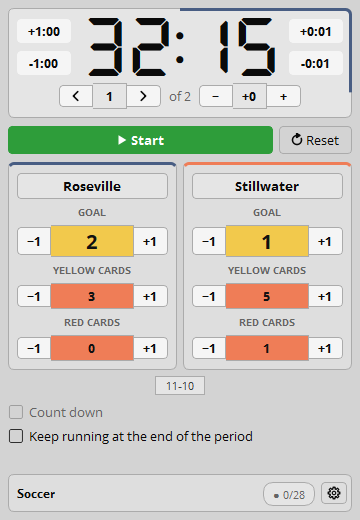
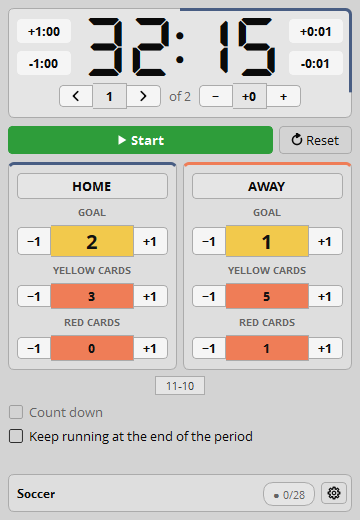
release: 1.1.0
Remote web page, settings window, optional looks, update changelog; README screenshots (dock, settings, mobile browser) and changelog for 1.1.0.

Changed region(s): [[0.6417, 0.3385, 0.825, 0.3692], [0.1528, 0.3385, 0.3361, 0.3692]]

diff --git a/src/plugin/DockGrab.cpp b/src/plugin/DockGrab.cpp
@@ -15,6 +15,9 @@
 #include "MatchSettingsDialog.hpp"
 #include "PenaltyDialog.hpp"
 #include "ScoreboardDock.hpp"
+#include "WebPage.hpp"
+#include "WebServer.hpp"
+#include "WebState.hpp"
 #include "SportCatalog.hpp"
 #include <obs-module.h>
 
@@ -25,8 +28,8 @@ namespace {
 // A match in progress, so the pictures show what the dock looks like in use.
 void stage(ClockDriver* driver, const sb::SportPreset& sport) {
     driver->replaceMatch(sb::MatchEngine(sb::MatchSettings::forSport(sport)));
-    driver->apply(sb::cmd::SetTeamName{sb::Team::Home, "Roseville"});
-    driver->apply(sb::cmd::SetTeamName{sb::Team::Away, "Stillwater"});
+    driver->apply(sb::cmd::SetTeamName{sb::Team::Home, "HOME"});
+    driver->apply(sb::cmd::SetTeamName{sb::Team::Away, "AWAY"});
     const auto add = [driver](sb::Team team, sb::Stat stat, int n) {
         for (int i = 0; i < n; ++i) driver->apply(sb::cmd::AddStat{team, stat, 1});
     };
@@ -193,6 +196,24 @@ int run(ClockDriver* driver, FieldSinks* sinks, const QString& directory) {
             }
         }
     }
+    // The remote page exactly as the server would send it, with the state of a staged match (the
+    // README pictures are made from these in a browser).
+    const auto writeText = [&](const QString& name, const std::string& text) {
+        QFile out(QDir(directory).filePath(name));
+        if (out.open(QIODevice::WriteOnly)) {
+            out.write(text.data(), static_cast<qint64>(text.size()));
+            ++written;
+        }
+    };
+    {
+        stage(driver, *sb::findSport("ice_hockey"));
+        writeText(QStringLiteral("web-page-control.html"),
+                  webPageHtml(true, WebServer::pageTexts().toStdString()));
+        writeText(QStringLiteral("web-page-view.html"),
+                  webPageHtml(false, WebServer::pageTexts().toStdString()));
+        writeText(QStringLiteral("web-state-control.json"),
+                  sb::webStateJson(driver->engine(), true, scratch.prefs()));
+    }
     // The optional looks, switched on: team colors, a consumed-time border and a clock that turns
     // amber, then red as the period runs out.
     {
@@ -208,7 +229,16 @@ int run(ClockDriver* driver, FieldSinks* sinks, const QString& directory) {
         ScoreboardDock colored(driver, sinks, &scratch, nullptr);
         stage(driver, *hockey);
         driver->apply(sb::cmd::ClockSet{sb::seconds(22)});
+        {
+            // After the clock was moved, so the penalties are still there (moving it runs them
+            // down).
+            const auto& phases = hockey->penaltyOptions.front().phases;
+            driver->apply(sb::cmd::PenaltyAdd{sb::Team::Home, "24", phases});
+            driver->apply(sb::cmd::PenaltyAdd{sb::Team::Away, "11", phases});
+        }
         QApplication::processEvents();
+        writeText(QStringLiteral("web-state-view-custom.json"),
+                  sb::webStateJson(driver->engine(), false, scratch.prefs()));
         if (save(&colored, 360,
                  QDir(directory).filePath(QStringLiteral("dock-custom-%1.png").arg(theme))))
             ++written;

diff --git a/src/plugin/WebServer.cpp b/src/plugin/WebServer.cpp
@@ -368,7 +368,7 @@ void WebServer::handle(const sb::HttpRequest& request, Connection* connection) {
     switch (route.kind) {
     case Kind::Page:
         reply(connection, 200, "text/html; charset=utf-8",
-              webPageHtml(route.canControl, i18nJson().toStdString()));
+              webPageHtml(route.canControl, pageTexts().toStdString()));
         return;
     case Kind::State:
         reply(connection, 200, kJson, sb::webStateJson(driver_->engine(), route.canControl, prefs));
@@ -434,7 +434,7 @@ void WebServer::reply(Connection* connection, int status, const char* contentTyp
     connection->socket->disconnectFromHost();
 }
 
-QString WebServer::i18nJson() const {
+QString WebServer::pageTexts() {
     QJsonObject texts;
     for (const char* key : kPageKeys)
         texts.insert(QString::fromLatin1(key), QString::fromUtf8(obs_module_text(key)));

diff --git a/src/plugin/WebServer.hpp b/src/plugin/WebServer.hpp
@@ -42,6 +42,8 @@ public:
     // link.
     int controllers() const { return controllers_; }
     int viewers() const { return viewers_; }
+    // The texts of the remote page as the JSON object the page expects (by locale key).
+    static QString pageTexts();
     bool listening() const { return server_.isListening(); }
     // Why the port could not be opened ("" when it could, or when the server is off).
     QString error() const { return error_; }
@@ -70,7 +72,6 @@ private:
     void handle(const sb::HttpRequest& request, Connection* connection);
     void reply(Connection* connection, int status, const char* contentType,
                const std::string& body);
-    QString i18nJson() const;
 
     QPointer<ClockDriver> driver_;
     QPointer<VendorApi> api_;

diff --git a/src/plugin/WebPage.cpp b/src/plugin/WebPage.cpp
@@ -218,7 +218,7 @@ function paintTeam(side,s){
   T0.fouls2.box.hidden=!L.fouls2;
   if(L.fouls2)fillCounter(T0.fouls2,t("Panel.Fouls2."+L.fouls2Label),s[side+"Fouls2"],null,K.foulColor);
   var rows=L.penalties?(s.penalties[side]||[]):[];
-  T0.penHead.hidden=!L.penalties;T0.penCap.textContent=t("Panel.Penalties");
+  T0.penHead.hidden=!L.penalties||(!CONTROL&&!rows.length);T0.penCap.textContent=t("Panel.Penalties");
   var key=CONTROL+JSON.stringify(rows.map(function(p){return [p.id,p.player,p.time,p.phase2,p.queued]}));
   if(key!==T0.penKey){T0.penKey=key;T0.penList.innerHTML="";
     rows.forEach(function(p){

diff --git a/README.md b/README.md
@@ -46,10 +46,10 @@ so every change shows on the next frame. Your font, colors and position stay you
 | **Clock** | Tenths of a second, up or down; ±1 min / ±1 s arrows capped to the period; two-digit minutes; stoppage time. |
 | **Sports** | 14 editable presets: ice hockey, basketball, soccer, futsal, American football, lacrosse, rugby union and sevens, field hockey, water polo, handball, rink hockey, floorball, generic. |
 | **Penalties** | Up to 8 per team, 2 running; compound (2+2); edit or cancel each one; strength text (`5-4`). |
-| **Dock** | Compact, no scrolling; custom score and foul colors; match autosaved and resumable. |
+| **Dock** | Compact, no scrolling, follows the OBS theme; sport, links and settings in a footer; optional team colors, period-progress border and clock color; match autosaved and resumable. |
 | **Hotkeys** | 40, stored in the scene collection. |
 | **Remote control** | obs-websocket vendor, Stream Deck plugin, Bitfocus Companion module, web page for watching or commanding from a browser. |
-| **Extras** | Optional `.txt` output, event log with YouTube chapters export, update notice. |
+| **Extras** | Optional `.txt` output, event log with YouTube chapters export, update check with the changelog of the new version. |
 
 ### Sports
 
@@ -105,7 +105,12 @@ Enable the server under **Tools → WebSocket Server Settings**. The Stream Deck
 
 #### Web page
 
-<img src="docs/images/web-remote.png" width="340" alt="The remote page in a browser: the same layout as the dock">
+<table>
+  <tr>
+    <td align="center"><img src="docs/images/remote-mobile-control.png" width="260" alt="The remote page on a phone with the control link"><br><sub>Control link</sub></td>
+    <td align="center"><img src="docs/images/remote-mobile-view.png" width="260" alt="The remote page on a phone with the view link, custom colors"><br><sub>View link, custom colors</sub></td>
+  </tr>
+</table>
 
 Off by default. Turn it on in **⚙ → Remote**: *View only* gives one link that can only watch; *View and control* adds a second link that also runs the clock, scores, periods and penalty cancellations. Open a link in any browser on your network, or copy it to a phone. The page looks like the dock (same colors, same arrangement of the buttons, the progress border and the clock color you chose). The keys of the two links are random, or you type your own (6–64 letters, digits, `-`, `_`). On a phone the page can vibrate when you press a button; a switch in its footer turns that on or off (Android; on iPhone it relies on an iOS trick and is not guaranteed). The connection is plain HTTP, so use it on a network you trust. A badge in the footer of the dock tells you when a device is connected. To reach it from outside your network (Tailscale, Cloudflare Tunnel, ngrok) see [docs/remote-control.md](docs/remote-control.md).
 
@@ -118,6 +123,8 @@ Off by default. Turn it on in **⚙ → Remote**: *View only* gives one link tha
 | Update check | Gear icon → *Updates* | *Check for updates now* asks GitHub on demand; *Check for updates at start* does it once per start. When a newer release exists, the page shows its changelog and the dock shows an "Update" button. Sends only the plugin version; notifies, never installs. |
 
 ### Look
+
+<img src="docs/images/settings-look.png" width="520" alt="Settings window, Look page: colors, period progress and clock color">
 
 | Feature | Where | Behavior |
 |---|---|---|
@@ -162,10 +169,10 @@ della sorgente tramite le API di OBS, così ogni cambio compare al fotogramma su
 | **Cronometro** | Decimi di secondo, avanti o indietro; frecce ±1 min / ±1 s limitate al periodo; minuti a due cifre; recupero. |
 | **Sport** | 14 preset modificabili: hockey su ghiaccio, basket, calcio, futsal, football americano, lacrosse, rugby a 15 e a 7, hockey su prato, pallanuoto, pallamano, hockey su pista, floorball, generico. |
 | **Penalità** | Fino a 8 per squadra, 2 in corso; composte (2+2); modifica o annulla ciascuna; testo di inferiorità (`5-4`). |
-| **Pannello** | Compatto, senza scorrimento; colori di punteggi e falli personalizzabili; partita salvata in automatico e riprendibile. |
+| **Pannello** | Compatto, senza scorrimento, segue il tema di OBS; sport, collegamenti e impostazioni in un piè di pagina; colori di squadra, bordo di avanzamento e colore del cronometro facoltativi; partita salvata in automatico e riprendibile. |
 | **Hotkey** | 40, salvate nella collezione di scene. |
-| **Controllo remoto** | Vendor obs-websocket, plugin Stream Deck, modulo Bitfocus Companion. |
-| **Extra** | Output `.txt` facoltativo, registro eventi con esportazione dei capitoli YouTube, avviso di aggiornamento. |
+| **Controllo remoto** | Vendor obs-websocket, plugin Stream Deck, modulo Bitfocus Companion, pagina web per guardare o comandare da un browser. |
+| **Extra** | Output `.txt` facoltativo, registro eventi con esportazione dei capitoli YouTube, controllo degli aggiornamenti con il changelog della nuova versione. |
 
 ### Sport
 
@@ -221,7 +228,12 @@ Attiva il server da **Strumenti → Impostazioni server WebSocket**. Il plugin S
 
 #### Pagina web
 
-<img src="docs/images/web-remote.png" width="340" alt="La pagina remota in un browser: lo stesso aspetto del pannello">
+<table>
+  <tr>
+    <td align="center"><img src="docs/images/remote-mobile-control.png" width="260" alt="La pagina remota su smartphone con il link di controllo"><br><sub>Link di controllo</sub></td>
+    <td align="center"><img src="docs/images/remote-mobile-view.png" width="260" alt="La pagina remota su smartphone con il link di visione, colori personalizzati"><br><sub>Link di visione, colori personalizzati</sub></td>
+  </tr>
+</table>
 
 Spenta di default. Si attiva da **⚙ → Remoto**: *Solo visione* dà un link che può solo guardare; *Visione e controllo* aggiunge un secondo link che comanda anche cronometro, punteggi, periodi e annullamento delle penalità. Apri il link in un browser sulla tua rete, oppure copialo sul telefono. La pagina ha l'aspetto del pannello (stessi colori, stessa disposizione dei tasti, bordo di avanzamento e colore del cronometro che hai scelto). Le chiavi dei due link sono casuali oppure le scrivi tu (da 6 a 64 lettere, cifre, `-`, `_`). Sul telefono la pagina può vibrare alla pressione dei tasti; un interruttore nel piè di pagina lo attiva o disattiva (Android; su iPhone si basa su un trucco di iOS e non è garantita). La connessione è HTTP semplice: usala su una rete di cui ti fidi. Un badge nel piè di pagina del pannello indica quando un dispositivo è collegato. Per raggiungerla da fuori rete (Tailscale, Cloudflare Tunnel, ngrok) vedi [docs/remote-control.md](docs/remote-control.md).
 
@@ -234,6 +246,8 @@ Spenta di default. Si attiva da **⚙ → Remoto**: *Solo visione* dà un link c
 | Controllo aggiornamenti | Ingranaggio → *Aggiornamenti* | *Controlla aggiornamenti ora* interroga GitHub su richiesta; *Controlla gli aggiornamenti all'avvio* lo fa una volta per avvio. Se esiste una versione più nuova la pagina mostra il changelog e il pannello un pulsante "Aggiorna". Invia solo la versione del plugin; avvisa, non installa. |
 
 ### Aspetto
+
+<img src="docs/images/settings-look.png" width="520" alt="Finestra impostazioni, pagina Aspetto: colori, avanzamento del periodo e colore del cronometro">
 
 | Funzione | Dove | Comportamento |
 |---|---|---|

diff --git a/CHANGELOG.md b/CHANGELOG.md
@@ -7,33 +7,37 @@ this project adheres to [Semantic Versioning](https://semver.org/spec/v2.0.0.htm
 
 ## [Unreleased]
 
+## [1.1.0] - 2026-10-21
+
+The dock and every window have a new look, the settings are in one window, and the scoreboard can be watched or commanded from a phone.
+
 ### Added
 
-- **Remote web page** (⚙ → Remote): off by default; *View only* or *View and control* from a phone, tablet or another computer on the same network. It looks like the dock: same colors, same arrangement of the buttons, the progress border around the clock, the clock color and the clock font. Two links (view, control) whose keys are random or typed by the user. Covers the clock, periods, stoppage, scores, shots, fouls, team names and penalty cancellation. On a phone it can vibrate on each press (on iPhone through an iOS trick that is not guaranteed); the viewer switches that on or off. The clock runs in the page between two answers, so the tenths of the last minute are smooth.
-- *Check for updates now* (Settings → Updates), with a message for "up to date" and for "could not check". A newer release shows its changelog, taken from GitHub, and an "Update" button in the dock.
+- **Remote web page** (⚙ → Remote), off by default: *View only* or *View and control* from a phone, tablet or another computer on the same network.
+  - It looks like the dock: same colors, same arrangement of the buttons, the progress border around the clock, the clock color and the clock font. It follows the light and dark theme of the browser.
+  - Two links (view, control) whose keys are random or typed by the user; a view link can never change anything.
+  - It is told about every change at once (server-sent events), the clock runs in the page so the tenths of the last minute are smooth, and it answers in the language of OBS.
+  - On a phone it can vibrate on every press (Android; on iPhone through an iOS trick that is not guaranteed); the viewer switches it on or off.
+  - A badge in the footer of the dock shows how many remote devices have the page open, green while one of them can command.
+  - Plain HTTP on your network. See [docs/remote-control.md](docs/remote-control.md), also for reaching it through Tailscale or a Cloudflare tunnel.
+- **Check for updates now** (Settings → Updates). A newer release shows its changelog, taken from GitHub, and an "Update" button in the dock.
+- **Optional looks** (Settings → Look): an accent color for each team card, a border around the clock that shrinks with the time left of the period (or fills with the time played; on by default), and a clock color, off by default, that is one color or up to four steps by time left (for example amber at 1:00, red at 0:30), optionally blended.
 - The sport of the match is always shown in the dock.
-- Custom accent color for each team card (*Match settings → Look*).
-- A progress border around the clock: it shrinks with the time left of the period (or fills with the time played). On by default; mode and color in *Match settings → Look*, or off.
-- Clock color: off by default; one color, or steps by time left (for example amber at 1:00 and red at 0:30, up to four), optionally blended.
 - Penalty types in the add-penalty window are chips instead of a drop-down.
-- *Match settings → Look → Dock density*: Compact (as before) or Comfortable (taller buttons and fields).
+- *Settings → Look → Dock density*: Compact (as before) or Comfortable (taller buttons and fields).
 
 ### Changed
 
-- A badge in the footer of the dock shows how many remote devices have the page open ("Remote 2"), green while one of them can command; its tooltip says how many command and how many only watch. Clicking it opens the Remote page of the settings.
-- A new look for the dock and every window: one button style with a single height, segmented `[ -1 | 2 | +1 ]` counters with a larger score button, the clock in a framed display with the period and stoppage steppers under it, a card per team with its own accent color, icons drawn by the plugin (menu, plus, pencil, cross, play/pause, reset) instead of text glyphs, and a thin bar of the time left under each running penalty. Colors now come from the OBS theme, so the dock and the windows follow the dark and light themes (and the others OBS ships); only start green, stop red and the score and foul colors stay fixed.
-- Match settings, Penalty and Source links windows share the same look (tabs with an underline, a highlighted OK, colored swatches that show the color in use).
-- The ⋮ menu is replaced by a gear icon that opens the settings window, now with a vertical list of pages: Match, Texts, Look, Output, Remote, Source links, Match control (new, resume, end, event log) and Updates. Fields keep the size of their content. The About window is gone: the version is on the Updates page.
-- The sport, the source-link indicator and the settings button sit in a bordered footer at the bottom of the dock.
+- A new look for the dock and every window: one button style with a single height, segmented `[ -1 | 2 | +1 ]` counters with a larger score button, the clock in a framed display, a card per team with its own accent color, icons drawn by the plugin instead of text glyphs, and a thin bar of the time left under each running penalty. Colors come from the OBS theme, so everything follows the dark and light themes; only start green, stop red and the score and foul colors stay fixed.
+- The ⋮ menu is replaced by a gear icon that opens one settings window with a vertical list of pages: Match, Texts, Look, Output, Remote, Source links, Match control (new, resume, end, event log) and Updates. Fields keep the size of their content. The About window is gone: the version is on the Updates page.
+- The sport, the source-link indicator, the remote badge and the settings button sit in a bordered footer at the bottom of the dock.
 - Tooltips and descriptions are shorter, and the Italian ones are written in Italian rather than translated word for word.
-
-### Fixed
-
-- The remote page is told about every change at once (server-sent events) instead of asking every 350 ms, so what happens in the plugin shows up on the phone, and a press on the phone shows up in the plugin, with almost no delay.
-- On iPhone every control of the remote page carries its own haptic switch and runs its action from that same tap (the single cover that forwarded taps did not work).
-- The period selector and its "of N" label are laid out in a grid and cannot overlap.
-- On a touch screen the Start button no longer turns grey after a tap in the remote page, "of 3" next to the period no longer hides under the arrow, and the footer of the page sits at the very bottom.
 - The goal, shots and fouls cells line up with their buttons and have the same width; the Stop button is no longer cut at the bottom; the Reset icon is drawn properly.
+- The plugin now also uses Qt Network (shipped with OBS) for the remote page.
+
+### Compatibility
+
+OBS Studio 30.0 or newer, as in 1.0.0.
 
 ## [1.0.0] - 2026-10-19
 
